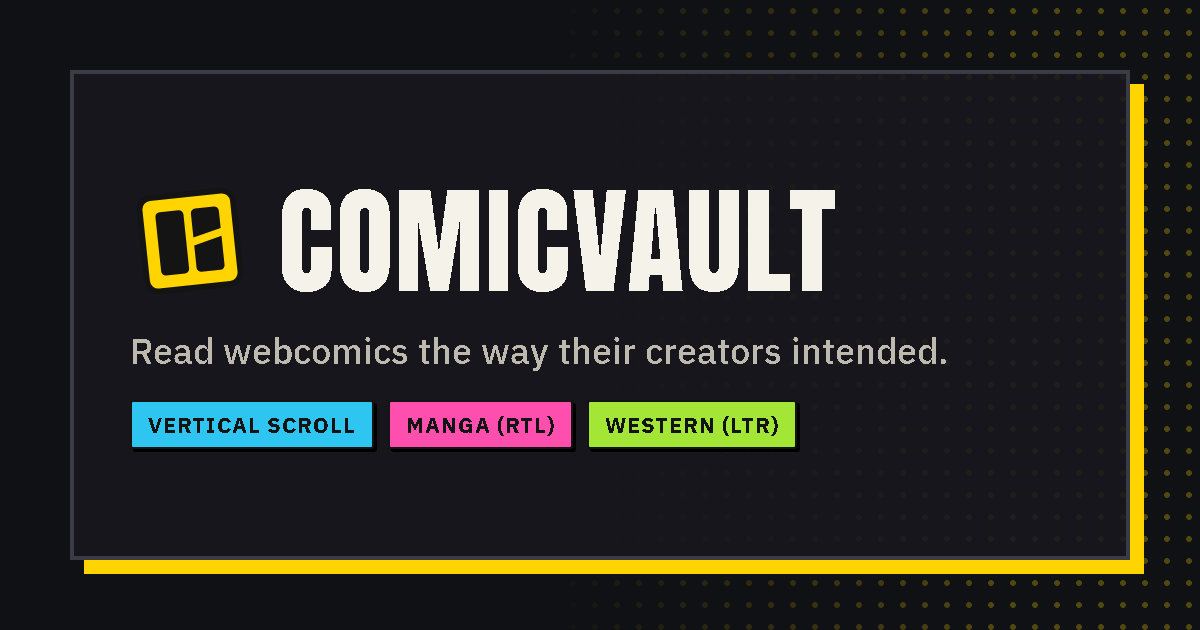
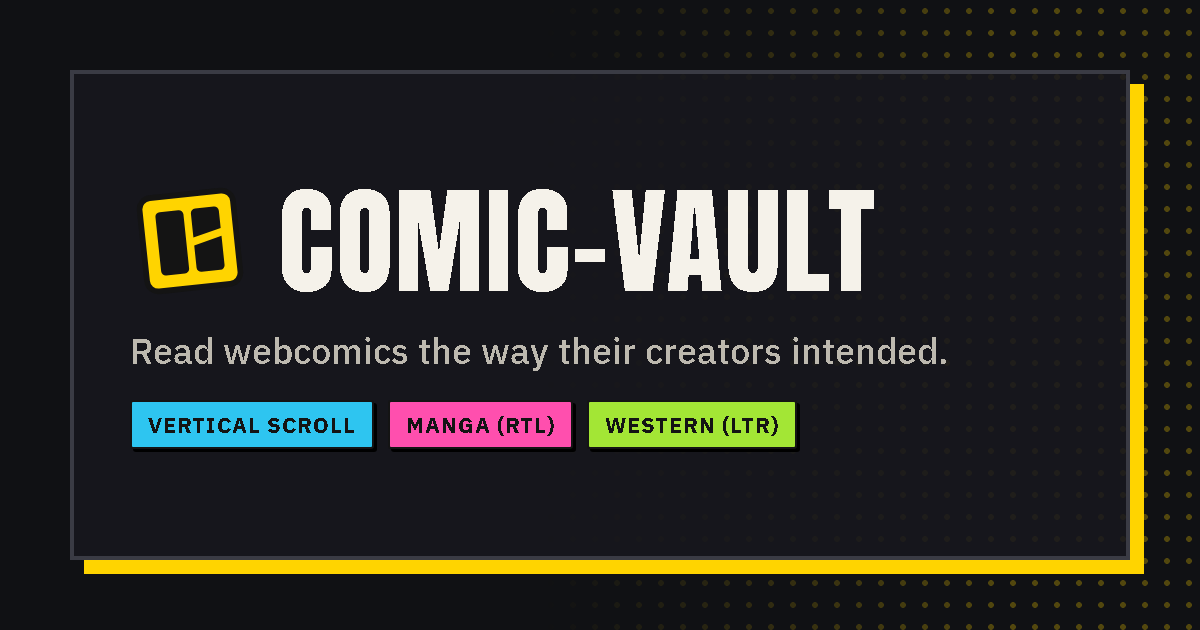
Rename site to Comic-Vault to match comic-vault.pages.dev

Changed region(s): [[0.4625, 0.3016, 0.74, 0.4825]]

diff --git a/terms.html b/terms.html
@@ -3,15 +3,15 @@
 <head>
   <meta charset="UTF-8">
   <meta name="viewport" content="width=device-width, initial-scale=1.0">
-  <title>Terms &amp; Creator Rules - ComicVault</title>
-  <meta name="description" content="The plain-language terms for using ComicVault and the rules for publishing comics.">
+  <title>Terms &amp; Creator Rules - Comic-Vault</title>
+  <meta name="description" content="The plain-language terms for using Comic-Vault and the rules for publishing comics.">
   <meta name="theme-color" content="#101114">
   <link rel="icon" href="assets/icon-32.png" sizes="32x32" type="image/png">
   <link rel="icon" href="assets/favicon.svg" type="image/svg+xml">
   <link rel="apple-touch-icon" href="assets/apple-touch-icon.png">
   <meta name="mobile-web-app-capable" content="yes">
   <meta name="apple-mobile-web-app-capable" content="yes">
-  <meta name="apple-mobile-web-app-title" content="ComicVault">
+  <meta name="apple-mobile-web-app-title" content="Comic-Vault">
   <link rel="stylesheet" href="css/styles.css">
 </head>
 <body>
@@ -24,28 +24,28 @@
       <h1>Terms &amp; creator rules</h1>
       <p class="lead">The short version: only upload comics you have the right to share, be decent, and remember this is a small community project.</p>
 
-      <h2>Using ComicVault</h2>
+      <h2>Using Comic-Vault</h2>
       <ul>
         <li>Anyone can read comics without an account.</li>
         <li>You need an account to publish. Keep your password safe; you're responsible for what's posted from your account.</li>
-        <li>ComicVault is provided as-is, without guarantees that it will always be available or free of bugs.</li>
+        <li>Comic-Vault is provided as-is, without guarantees that it will always be available or free of bugs.</li>
       </ul>
 
       <h2>What you can upload</h2>
       <ul>
         <li><strong>Only work you created, or have permission to publish.</strong> Don't upload other people's comics, scans or art.</li>
-        <li>You keep the rights to your work. By publishing, you allow ComicVault to store it and show it to readers.</li>
+        <li>You keep the rights to your work. By publishing, you allow Comic-Vault to store it and show it to readers.</li>
         <li>No illegal content, no sexual content involving minors, no harassment or hate targeting people for who they are, and no spam or malware.</li>
         <li>Content that breaks these rules may be removed and the account suspended.</li>
       </ul>
 
       <h2>Removing your work</h2>
-      <p>You can edit or delete any chapter or series you published at any time from <a href="dashboard.html">My Comics</a>. Deleting removes the pages from ComicVault's storage.</p>
+      <p>You can edit or delete any chapter or series you published at any time from <a href="dashboard.html">My Comics</a>. Deleting removes the pages from Comic-Vault's storage.</p>
 
       <h2>Your data</h2>
       <ul>
         <li>Your account stores your email address, username and the comics you publish.</li>
-        <li>Reading progress, theme and reader settings are saved only in your own browser (local storage). They are not sent to ComicVault, and clearing your browser data removes them.</li>
+        <li>Reading progress, theme and reader settings are saved only in your own browser (local storage). They are not sent to Comic-Vault, and clearing your browser data removes them.</li>
         <li>Accounts and files are hosted by <a href="https://supabase.com" rel="noopener">Supabase</a>.</li>
       </ul>
 

diff --git a/about.html b/about.html
@@ -3,18 +3,18 @@
 <head>
   <meta charset="UTF-8">
   <meta name="viewport" content="width=device-width, initial-scale=1.0">
-  <title>About - ComicVault</title>
-  <meta name="description" content="ComicVault is a webcomic platform that keeps each comic in the reading direction its creator chose.">
+  <title>About - Comic-Vault</title>
+  <meta name="description" content="Comic-Vault is a webcomic platform that keeps each comic in the reading direction its creator chose.">
   <meta name="theme-color" content="#101114">
   <link rel="icon" href="assets/icon-32.png" sizes="32x32" type="image/png">
   <link rel="icon" href="assets/favicon.svg" type="image/svg+xml">
   <link rel="apple-touch-icon" href="assets/apple-touch-icon.png">
   <meta name="mobile-web-app-capable" content="yes">
   <meta name="apple-mobile-web-app-capable" content="yes">
-  <meta name="apple-mobile-web-app-title" content="ComicVault">
-  <meta property="og:site_name" content="ComicVault">
+  <meta name="apple-mobile-web-app-title" content="Comic-Vault">
+  <meta property="og:site_name" content="Comic-Vault">
   <meta property="og:type" content="website">
-  <meta property="og:title" content="About ComicVault">
+  <meta property="og:title" content="About Comic-Vault">
   <meta property="og:description" content="A webcomic platform that keeps each comic in the reading direction its creator chose.">
   <meta property="og:image" content="https://comic-vault.pages.dev/assets/og-image.png">
   <meta property="og:image:width" content="1200">
@@ -27,9 +27,9 @@
 
   <main id="main" class="container" tabindex="-1">
     <article class="prose">
-      <h1>About ComicVault</h1>
-      <p class="lead">ComicVault is a home for webcomics where every series is read exactly the way its creator intended.</p>
-      <p>Creators choose a reading direction when they publish, and ComicVault sticks to it, so a manga always reads right to left and a webtoon always scrolls.</p>
+      <h1>About Comic-Vault</h1>
+      <p class="lead">Comic-Vault is a home for webcomics where every series is read exactly the way its creator intended.</p>
+      <p>Creators choose a reading direction when they publish, and Comic-Vault sticks to it, so a manga always reads right to left and a webtoon always scrolls.</p>
 
       <h2>Three ways to read</h2>
       <div class="mode-cards">
@@ -49,10 +49,10 @@
 
       <h2>For readers</h2>
       <ul>
-        <li>No account needed to read. ComicVault remembers where you stopped (in your browser) and shows it under <strong>Continue reading</strong>.</li>
+        <li>No account needed to read. Comic-Vault remembers where you stopped (in your browser) and shows it under <strong>Continue reading</strong>.</li>
         <li>On phones, swipe to turn pages and tap the middle of a page to hide the controls.</li>
         <li>Pick a light or dark theme, a reader background, and two-page spreads on big screens.</li>
-        <li>Add ComicVault to your home screen to open it like an app.</li>
+        <li>Add Comic-Vault to your home screen to open it like an app.</li>
       </ul>
 
       <h2>For creators</h2>

diff --git a/common.js b/common.js
@@ -1,5 +1,5 @@
 /* ==========================================================================
-   ComicVault - common.js
+   Comic-Vault - common.js
    --------------------------------------------------------------------------
    Loaded FIRST on every page, as the first thing inside <body>, before the
    Supabase scripts. It:
@@ -409,7 +409,7 @@
     <a class="skip-link" href="#main">Skip to content</a>
     <header class="site-header">
       <div class="container nav-wrapper">
-        <a href="index.html" class="logo" aria-label="ComicVault home"><span class="logo-mark">${LOGO}</span><span class="logo-text">ComicVault</span></a>
+        <a href="index.html" class="logo" aria-label="Comic-Vault home"><span class="logo-mark">${LOGO}</span><span class="logo-text">Comic-Vault</span></a>
         ${searchForm("bar")}
         <nav class="site-nav" id="site-nav" aria-label="Main">
           ${searchForm("panel")}
@@ -428,7 +428,7 @@
     <footer class="site-footer">
       <div class="container footer-inner">
         <div class="footer-brand">
-          <a href="index.html" class="logo"><span class="logo-mark">${LOGO}</span><span class="logo-text">ComicVault</span></a>
+          <a href="index.html" class="logo"><span class="logo-mark">${LOGO}</span><span class="logo-text">Comic-Vault</span></a>
           <p>Read webcomics the way their creators intended.</p>
         </div>
         <nav class="footer-links" aria-label="Footer">
@@ -438,7 +438,7 @@
           <a href="terms.html">Terms &amp; rules</a>
           <a href="about.html#contact">Contact</a>
         </nav>
-        <p class="footer-copy">&copy; ${new Date().getFullYear()} ComicVault. Built for webcomic creators and readers.</p>
+        <p class="footer-copy">&copy; ${new Date().getFullYear()} Comic-Vault. Built for webcomic creators and readers.</p>
       </div>
     </footer>`;
 

diff --git a/signup.html b/signup.html
@@ -3,18 +3,18 @@
 <head>
   <meta charset="UTF-8">
   <meta name="viewport" content="width=device-width, initial-scale=1.0">
-  <title>Sign Up - ComicVault</title>
-  <meta name="description" content="Create a free ComicVault account to publish your webcomics.">
+  <title>Sign Up - Comic-Vault</title>
+  <meta name="description" content="Create a free Comic-Vault account to publish your webcomics.">
   <meta name="theme-color" content="#101114">
   <link rel="icon" href="assets/icon-32.png" sizes="32x32" type="image/png">
   <link rel="icon" href="assets/favicon.svg" type="image/svg+xml">
   <link rel="apple-touch-icon" href="assets/apple-touch-icon.png">
   <meta name="mobile-web-app-capable" content="yes">
   <meta name="apple-mobile-web-app-capable" content="yes">
-  <meta name="apple-mobile-web-app-title" content="ComicVault">
-  <meta property="og:site_name" content="ComicVault">
+  <meta name="apple-mobile-web-app-title" content="Comic-Vault">
+  <meta property="og:site_name" content="Comic-Vault">
   <meta property="og:type" content="website">
-  <meta property="og:title" content="Join ComicVault">
+  <meta property="og:title" content="Join Comic-Vault">
   <meta property="og:description" content="Create a free account and publish your webcomic, read the way you intended.">
   <meta property="og:image" content="https://comic-vault.pages.dev/assets/og-image.png">
   <meta property="og:image:width" content="1200">
@@ -35,7 +35,7 @@
 
       <form id="signup-form" class="auth-form">
         <h1>Create an account</h1>
-        <p class="auth-subtitle">Join ComicVault to publish your own series.</p>
+        <p class="auth-subtitle">Join Comic-Vault to publish your own series.</p>
 
         <div class="form-group">
           <label for="signup-username">Username / creator name</label>

diff --git a/index.html b/index.html
@@ -3,7 +3,7 @@
 <head>
   <meta charset="UTF-8">
   <meta name="viewport" content="width=device-width, initial-scale=1.0">
-  <title>ComicVault - Read Webcomics</title>
+  <title>Comic-Vault - Read Webcomics</title>
   <meta name="description" content="Read webcomics the way their creators intended: vertical scroll, manga (right to left) or western page-turns.">
   <meta name="theme-color" content="#101114">
   <link rel="icon" href="assets/icon-32.png" sizes="32x32" type="image/png">
@@ -11,10 +11,10 @@
   <link rel="apple-touch-icon" href="assets/apple-touch-icon.png">
   <meta name="mobile-web-app-capable" content="yes">
   <meta name="apple-mobile-web-app-capable" content="yes">
-  <meta name="apple-mobile-web-app-title" content="ComicVault">
-  <meta property="og:site_name" content="ComicVault">
+  <meta name="apple-mobile-web-app-title" content="Comic-Vault">
+  <meta property="og:site_name" content="Comic-Vault">
   <meta property="og:type" content="website">
-  <meta property="og:title" content="ComicVault - Read Webcomics">
+  <meta property="og:title" content="Comic-Vault - Read Webcomics">
   <meta property="og:description" content="Read webcomics the way their creators intended: vertical scroll, manga or western page-turns.">
   <meta property="og:image" content="https://comic-vault.pages.dev/assets/og-image.png">
   <meta property="og:image:width" content="1200">
@@ -26,7 +26,7 @@
   <script src="common.js"></script>
 
   <main id="main" class="container" tabindex="-1">
-    <h1 class="visually-hidden">ComicVault: read webcomics</h1>
+    <h1 class="visually-hidden">Comic-Vault: read webcomics</h1>
 
     <!-- Featured carousel (index.js) -->
     <section class="hero" id="featured" aria-label="Featured comics">

diff --git a/browse.html b/browse.html
@@ -3,18 +3,18 @@
 <head>
   <meta charset="UTF-8">
   <meta name="viewport" content="width=device-width, initial-scale=1.0">
-  <title>Browse Webcomics - ComicVault</title>
-  <meta name="description" content="Browse and search webcomics on ComicVault by title, author, genre and reading direction.">
+  <title>Browse Webcomics - Comic-Vault</title>
+  <meta name="description" content="Browse and search webcomics on Comic-Vault by title, author, genre and reading direction.">
   <meta name="theme-color" content="#101114">
   <link rel="icon" href="assets/icon-32.png" sizes="32x32" type="image/png">
   <link rel="icon" href="assets/favicon.svg" type="image/svg+xml">
   <link rel="apple-touch-icon" href="assets/apple-touch-icon.png">
   <meta name="mobile-web-app-capable" content="yes">
   <meta name="apple-mobile-web-app-capable" content="yes">
-  <meta name="apple-mobile-web-app-title" content="ComicVault">
-  <meta property="og:site_name" content="ComicVault">
+  <meta name="apple-mobile-web-app-title" content="Comic-Vault">
+  <meta property="og:site_name" content="Comic-Vault">
   <meta property="og:type" content="website">
-  <meta property="og:title" content="Browse Webcomics - ComicVault">
+  <meta property="og:title" content="Browse Webcomics - Comic-Vault">
   <meta property="og:description" content="Find your next webcomic by genre, author or reading direction.">
   <meta property="og:image" content="https://comic-vault.pages.dev/assets/og-image.png">
   <meta property="og:image:width" content="1200">

diff --git a/profile.html b/profile.html
@@ -3,19 +3,19 @@
 <head>
   <meta charset="UTF-8">
   <meta name="viewport" content="width=device-width, initial-scale=1.0">
-  <title>Creator - ComicVault</title>
-  <meta name="description" content="A creator's webcomics on ComicVault.">
+  <title>Creator - Comic-Vault</title>
+  <meta name="description" content="A creator's webcomics on Comic-Vault.">
   <meta name="theme-color" content="#101114">
   <link rel="icon" href="assets/icon-32.png" sizes="32x32" type="image/png">
   <link rel="icon" href="assets/favicon.svg" type="image/svg+xml">
   <link rel="apple-touch-icon" href="assets/apple-touch-icon.png">
   <meta name="mobile-web-app-capable" content="yes">
   <meta name="apple-mobile-web-app-capable" content="yes">
-  <meta name="apple-mobile-web-app-title" content="ComicVault">
-  <meta property="og:site_name" content="ComicVault">
+  <meta name="apple-mobile-web-app-title" content="Comic-Vault">
+  <meta property="og:site_name" content="Comic-Vault">
   <meta property="og:type" content="profile">
-  <meta property="og:title" content="A creator on ComicVault">
-  <meta property="og:description" content="Read this creator's webcomics on ComicVault.">
+  <meta property="og:title" content="A creator on Comic-Vault">
+  <meta property="og:description" content="Read this creator's webcomics on Comic-Vault.">
   <meta property="og:image" content="https://comic-vault.pages.dev/assets/og-image.png">
   <meta property="og:image:width" content="1200">
   <meta property="og:image:height" content="630">

diff --git a/upload.html b/upload.html
@@ -3,18 +3,18 @@
 <head>
   <meta charset="UTF-8">
   <meta name="viewport" content="width=device-width, initial-scale=1.0">
-  <title>Publish - ComicVault</title>
-  <meta name="description" content="Publish a new webcomic series or add a chapter on ComicVault.">
+  <title>Publish - Comic-Vault</title>
+  <meta name="description" content="Publish a new webcomic series or add a chapter on Comic-Vault.">
   <meta name="theme-color" content="#101114">
   <link rel="icon" href="assets/icon-32.png" sizes="32x32" type="image/png">
   <link rel="icon" href="assets/favicon.svg" type="image/svg+xml">
   <link rel="apple-touch-icon" href="assets/apple-touch-icon.png">
   <meta name="mobile-web-app-capable" content="yes">
   <meta name="apple-mobile-web-app-capable" content="yes">
-  <meta name="apple-mobile-web-app-title" content="ComicVault">
-  <meta property="og:site_name" content="ComicVault">
+  <meta name="apple-mobile-web-app-title" content="Comic-Vault">
+  <meta property="og:site_name" content="Comic-Vault">
   <meta property="og:type" content="website">
-  <meta property="og:title" content="Publish on ComicVault">
+  <meta property="og:title" content="Publish on Comic-Vault">
   <meta property="og:description" content="Publish your webcomic and choose exactly how readers see it: vertical scroll, manga or western page-turns.">
   <meta property="og:image" content="https://comic-vault.pages.dev/assets/og-image.png">
   <meta property="og:image:width" content="1200">

diff --git a/comic.html b/comic.html
@@ -3,18 +3,18 @@
 <head>
   <meta charset="UTF-8">
   <meta name="viewport" content="width=device-width, initial-scale=1.0">
-  <title>Comic - ComicVault</title>
-  <meta name="description" content="Read this webcomic on ComicVault: synopsis, chapters and more like it.">
+  <title>Comic - Comic-Vault</title>
+  <meta name="description" content="Read this webcomic on Comic-Vault: synopsis, chapters and more like it.">
   <meta name="theme-color" content="#101114">
   <link rel="icon" href="assets/icon-32.png" sizes="32x32" type="image/png">
   <link rel="icon" href="assets/favicon.svg" type="image/svg+xml">
   <link rel="apple-touch-icon" href="assets/apple-touch-icon.png">
   <meta name="mobile-web-app-capable" content="yes">
   <meta name="apple-mobile-web-app-capable" content="yes">
-  <meta name="apple-mobile-web-app-title" content="ComicVault">
-  <meta property="og:site_name" content="ComicVault">
+  <meta name="apple-mobile-web-app-title" content="Comic-Vault">
+  <meta property="og:site_name" content="Comic-Vault">
   <meta property="og:type" content="website">
-  <meta property="og:title" content="A webcomic on ComicVault">
+  <meta property="og:title" content="A webcomic on Comic-Vault">
   <meta property="og:description" content="Read webcomics the way their creators intended.">
   <meta property="og:image" content="https://comic-vault.pages.dev/assets/og-image.png">
   <meta property="og:image:width" content="1200">

diff --git a/reader.html b/reader.html
@@ -3,18 +3,18 @@
 <head>
   <meta charset="UTF-8">
   <meta name="viewport" content="width=device-width, initial-scale=1.0">
-  <title>Reader - ComicVault</title>
-  <meta name="description" content="Read webcomics on ComicVault, in the reading direction the creator chose.">
+  <title>Reader - Comic-Vault</title>
+  <meta name="description" content="Read webcomics on Comic-Vault, in the reading direction the creator chose.">
   <meta name="theme-color" content="#101114">
   <link rel="icon" href="assets/icon-32.png" sizes="32x32" type="image/png">
   <link rel="icon" href="assets/favicon.svg" type="image/svg+xml">
   <link rel="apple-touch-icon" href="assets/apple-touch-icon.png">
   <meta name="mobile-web-app-capable" content="yes">
   <meta name="apple-mobile-web-app-capable" content="yes">
-  <meta name="apple-mobile-web-app-title" content="ComicVault">
-  <meta property="og:site_name" content="ComicVault">
+  <meta name="apple-mobile-web-app-title" content="Comic-Vault">
+  <meta property="og:site_name" content="Comic-Vault">
   <meta property="og:type" content="website">
-  <meta property="og:title" content="Read on ComicVault">
+  <meta property="og:title" content="Read on Comic-Vault">
   <meta property="og:description" content="Read webcomics the way their creators intended.">
   <meta property="og:image" content="https://comic-vault.pages.dev/assets/og-image.png">
   <meta property="og:image:width" content="1200">

diff --git a/sw.js b/sw.js
@@ -1,5 +1,5 @@
 /* ==========================================================================
-   ComicVault service worker
+   Comic-Vault service worker
    Makes the site installable ("Add to Home Screen") and shows saved copies
    of pages when there's no internet. It ALWAYS tries the network first, so
    while online you never get out-of-date files.
@@ -10,7 +10,7 @@ const CACHE = "comicvault-v3";
 const PRECACHE = ["./", "css/styles.css", "common.js", "assets/icon-192.png"];
 
 const OFFLINE_HTML = `<!doctype html><html lang="en"><head><meta charset="utf-8">
-<meta name="viewport" content="width=device-width, initial-scale=1"><title>Offline - ComicVault</title>
+<meta name="viewport" content="width=device-width, initial-scale=1"><title>Offline - Comic-Vault</title>
 <style>body{margin:0;min-height:100vh;display:grid;place-items:center;padding:2rem;text-align:center;
 font-family:system-ui,sans-serif;background:#101114;color:#f5f2ea}p{color:#bdb9af}h1{color:#ffd400}</style></head>
 <body><main><h1>You're offline</h1><p>Connect to the internet and try again.</p></main></body></html>`;

diff --git a/login.html b/login.html
@@ -3,15 +3,15 @@
 <head>
   <meta charset="UTF-8">
   <meta name="viewport" content="width=device-width, initial-scale=1.0">
-  <title>Log In - ComicVault</title>
-  <meta name="description" content="Log in to ComicVault to publish and manage your webcomics.">
+  <title>Log In - Comic-Vault</title>
+  <meta name="description" content="Log in to Comic-Vault to publish and manage your webcomics.">
   <meta name="theme-color" content="#101114">
   <link rel="icon" href="assets/icon-32.png" sizes="32x32" type="image/png">
   <link rel="icon" href="assets/favicon.svg" type="image/svg+xml">
   <link rel="apple-touch-icon" href="assets/apple-touch-icon.png">
   <meta name="mobile-web-app-capable" content="yes">
   <meta name="apple-mobile-web-app-capable" content="yes">
-  <meta name="apple-mobile-web-app-title" content="ComicVault">
+  <meta name="apple-mobile-web-app-title" content="Comic-Vault">
   <link rel="stylesheet" href="css/styles.css">
 </head>
 <body>
